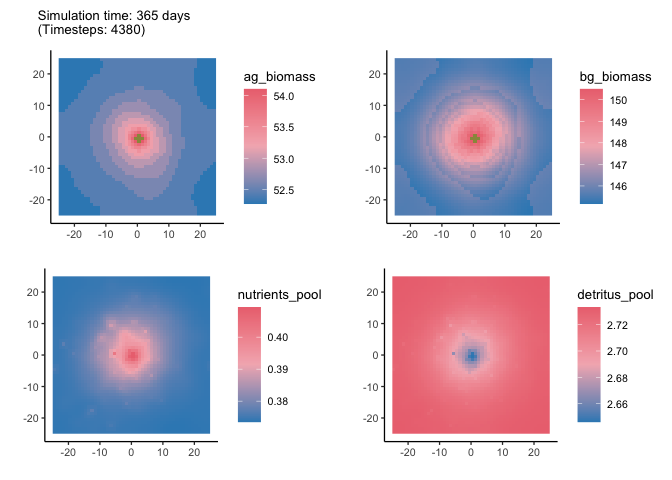
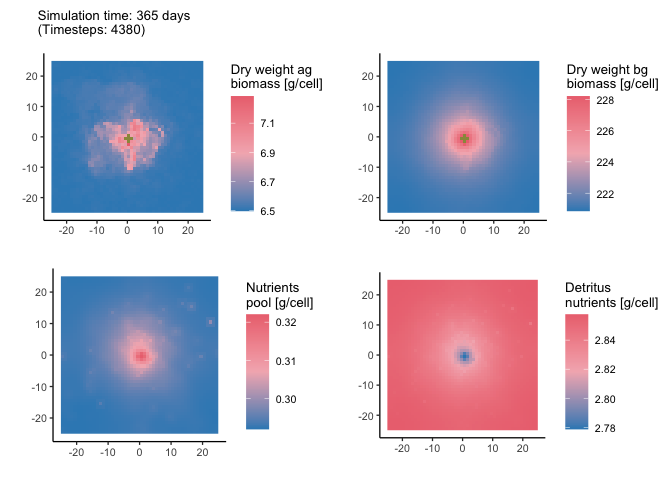
:white_check_mark: Add GitHub actions CI

diff --git a/README.md b/README.md
@@ -11,6 +11,8 @@ Status](https://www.repostatus.org/badges/latest/active.svg)](https://www.repost
 maturing](https://img.shields.io/badge/lifecycle-maturing-blue.svg)](https://www.tidyverse.org/lifecycle/#maturing)
 [![License:
 MIT](https://img.shields.io/badge/License-MIT-yellow.svg)](https://opensource.org/licenses/MIT)
+[![R build
+status](https://github.com/Allgeier-Lab/arrR/workflows/R-CMD-check/badge.svg)](https://github.com/Allgeier-Lab/arrR/actions)
 
 <!-- badges: end -->
 
@@ -58,7 +60,11 @@ starting_values <- read_parameters(file = starting_values, sep = ";")
 parameters <- read_parameters(file = parameters, sep = ";")
 
 check_parameters(starting_values = starting_values, parameters = parameters)
-#> > All starting values and parameters are available...
+#> > ...Checking starting values...
+#> > ...Checking parameter values...
+#> > ...Checking if starting values are within parameter boundaries...
+#> 
+#> > All checking done.
 ```
 
 To setup the simulation seafloor and individuals, simply run
@@ -106,14 +112,14 @@ result
 #> Results printed: 4380 timestep
 #> 
 #> Seafloor: (ag_biomass, bg_biomass, nutrients_pool, detritus_pool, detritus_dead)
-#> Minimum: 52.2737, 145.1707, 0.3735, 2.646, 0
-#> Mean:        52.5178, 146.1845, 0.3775, 2.7216, 0
-#> Maximum: 54.1012, 150.4948, 0.4094, 2.7333, 0
+#> Minimum: 6.498, 220.8609, 0.292, 2.7787, 0
+#> Mean:        6.5494, 221.6571, 0.2947, 2.8479, 0
+#> Maximum: 7.2843, 228.1941, 0.322, 2.8577, 0
 #> 
 #> Fish population: (length, weight, died_consumption, died_background)
-#> Minimum: 10.4274, 20.0099, 0, 0
-#> Mean:        14.9959, 86.8897, 0, 0
-#> Maximum: 32.2559, 710.3942, 0, 0
+#> Minimum: 12.4604, 35.1367, 0, 0
+#> Mean:        14.7027, 65.3905, 0, 0
+#> Maximum: 24.1883, 285.9975, 0, 0
 ```
 
 To plot the results, pass the resulting object to the `plot` function.
